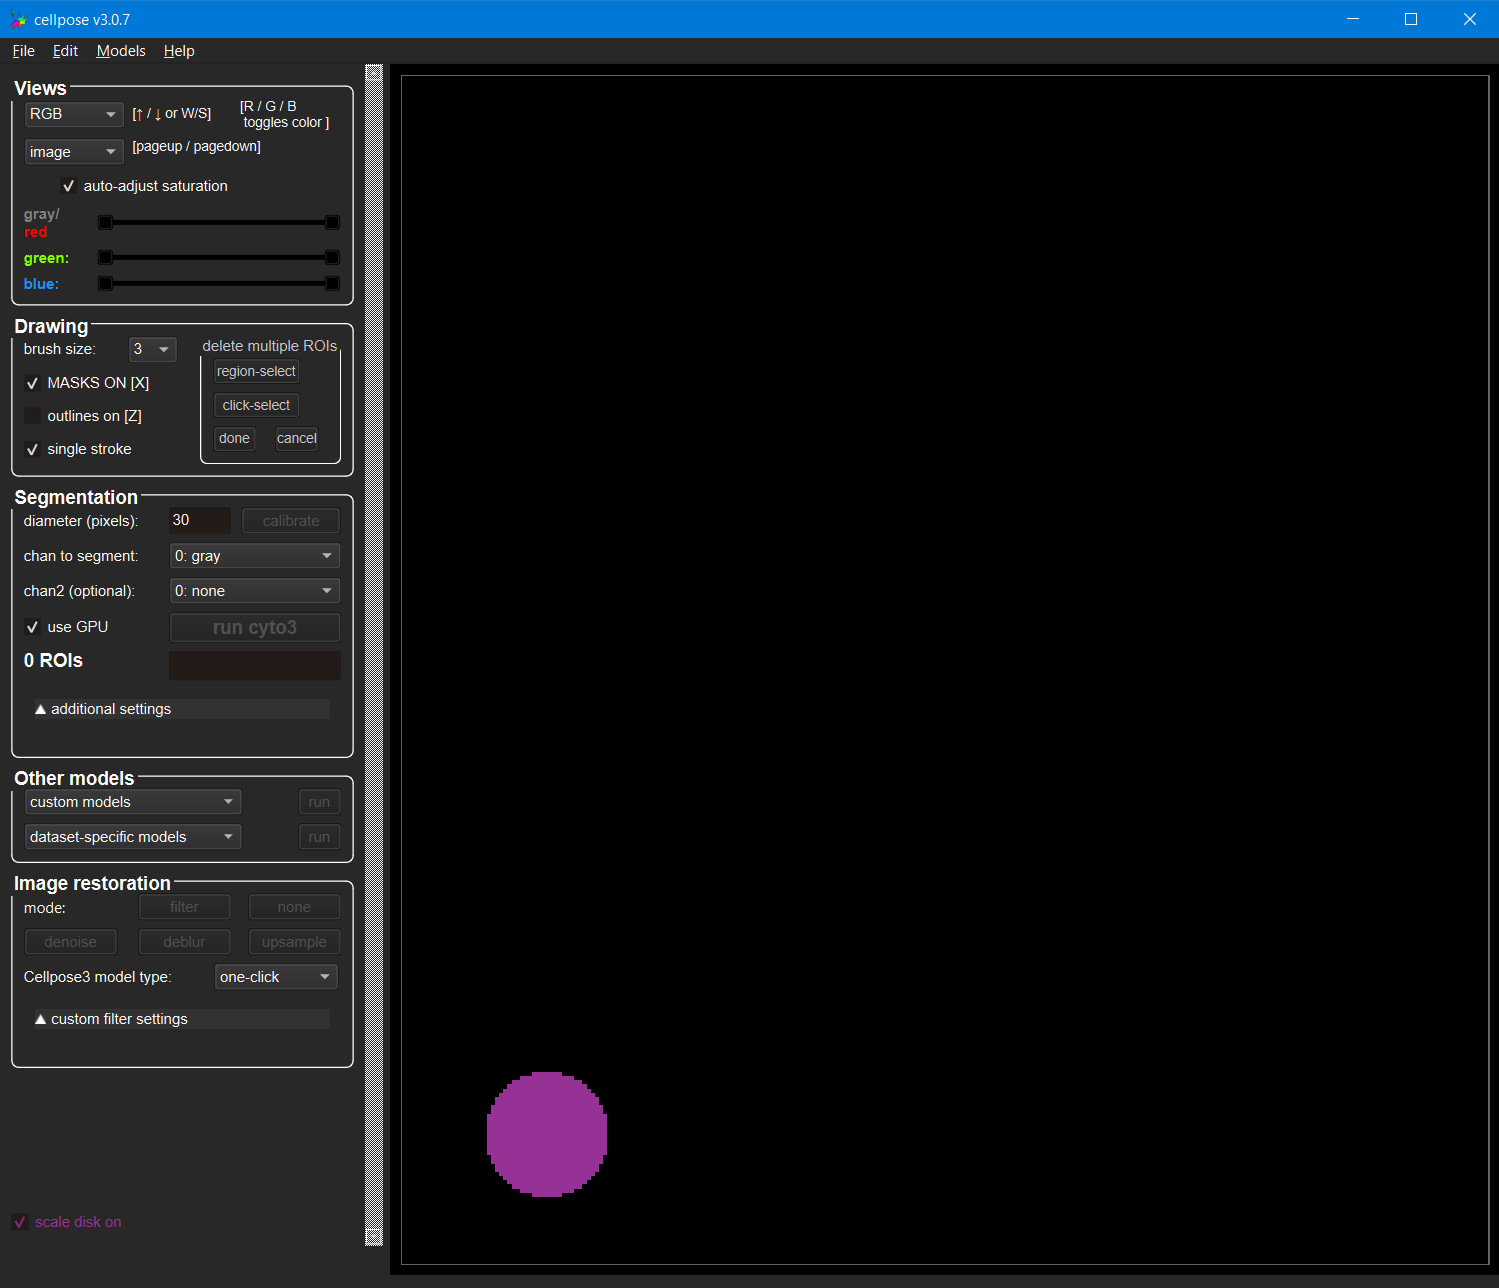
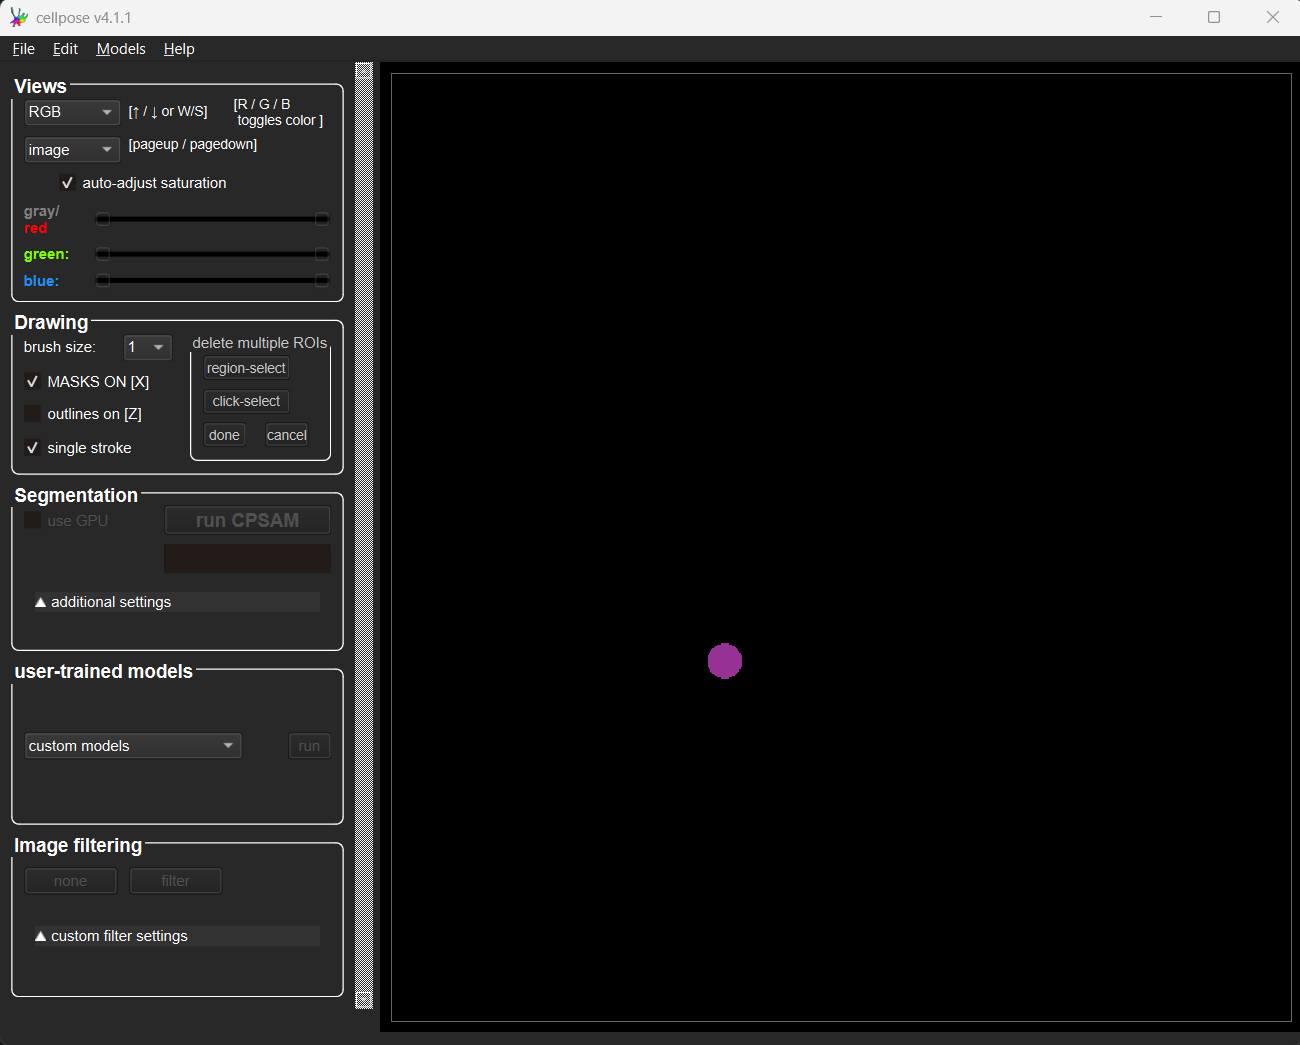
updated instructrions and screenshot to cellpose4

diff --git a/qi_2026_analysis_lab_manual/Lab05_3D_Image_Analysis.md b/qi_2026_analysis_lab_manual/Lab05_3D_Image_Analysis.md
@@ -282,21 +282,15 @@ Check out the [documentation](https://cellpose.readthedocs.io/en/latest/), or ch
   2D slides and merging them into a consensus 3D segmentation. Interesting! Let's try!
   In tomorrow's deep learing lab, we will use cellpose more extensively, including fine-tuning a model to work better on our data. But for today, we will just use the default model. 
 
-- Cellpose is a python based program. We will use python and conda more tomorrow, but for now we have installed cellpose for you using the miniforge open-source python package manager.
-
-- Open a terminal by going to the search bar in windows and typing `miniforge`. Select the option `miniforge prompt`, and a black terminal window should appear. 
-- In miniforge, cellpose lives in it's own space, called an environment. You can activate the CellPose environment by typing
-  `conda activate cellpose`. Once this happens, the text of the terminal prompt should say something like `(cellpose)`.
-
-- Start CellPose by typing `cellpose --Zstack` (because we will be working with 3D data, we need to add the 'flag' `--Zstack` sot htat Cellpose knows hoe to interpret the additional dimension (z) of the image). 
+- Cellpose is a python based program. We will use python and conda more tomorrow, but for now we have installed cellpose for you using the UV package manager. On the desktop there should be an icon that says `cellpose_3D.bat` (be sure not to use the one that says `cellpose.bat` as cellpose needs to be specifically initialized for 3D data). Double click this icon to launch cellpose.
 
 - You should see a window that looks like this: <img src="images/dl/cellpose_gui.png" style="width:6in" />
 
-- open your image (`drosophilus_floriansus_single_t.tif`) by dragging it into the cellpose window. Note that cellpose expects a certain 'object size', determined by the `diameter (pixels)` parameter/ What size should we use? Look at the scale circle on the bottom left to estimate a good parameter. How could this change when we are doing 3D segmentation? (Remember that what we're actually doing is sequential 2D segmentation along each image axis)
+- open your image (`drosophilus_floriansus_single_t.tif`) by dragging it into the cellpose window. Note that cellpose expects a certain 'object size', determined by the `diameter (pixels)` parameter/ (you will find this under the `additional settings` dropdown in the `Segmentation` panel) What size should we use? Look at the scale circle on the bottom left to estimate a good parameter. How could this change when we are doing 3D segmentation? (Remember that what we're actually doing is sequential 2D segmentation along each image axis)
 
-- Once you have decided on a diameter, run a segmentation by clicking `run cyto3`. This will apply the `cyto3` pre-trained cellpose model to the image. Note that it might take some time to fully segment the image. You can check on the progress by looking at the terminal window.
+- Once you have decided on a diameter, run a segmentation by clicking `run CPSAM`. This will apply the `CPSAM` pre-trained cellpose model to the image. Note that it might take some time to fully segment the image. You can check on the progress by looking at the terminal window.
 
-- How was your segementation? Do any of the other cellpose models work better? Try some other models. Tomorrow we will play around more with cellpose, including retraining a model so that it works better!
+- How was your segementation? Could it be improved? Tomorrow we will play around more with cellpose, including retraining (finetuning) the CPSAM model so that it works better!
 
   ```{hint}
   Are there any preprocessing steps that could help to better 
